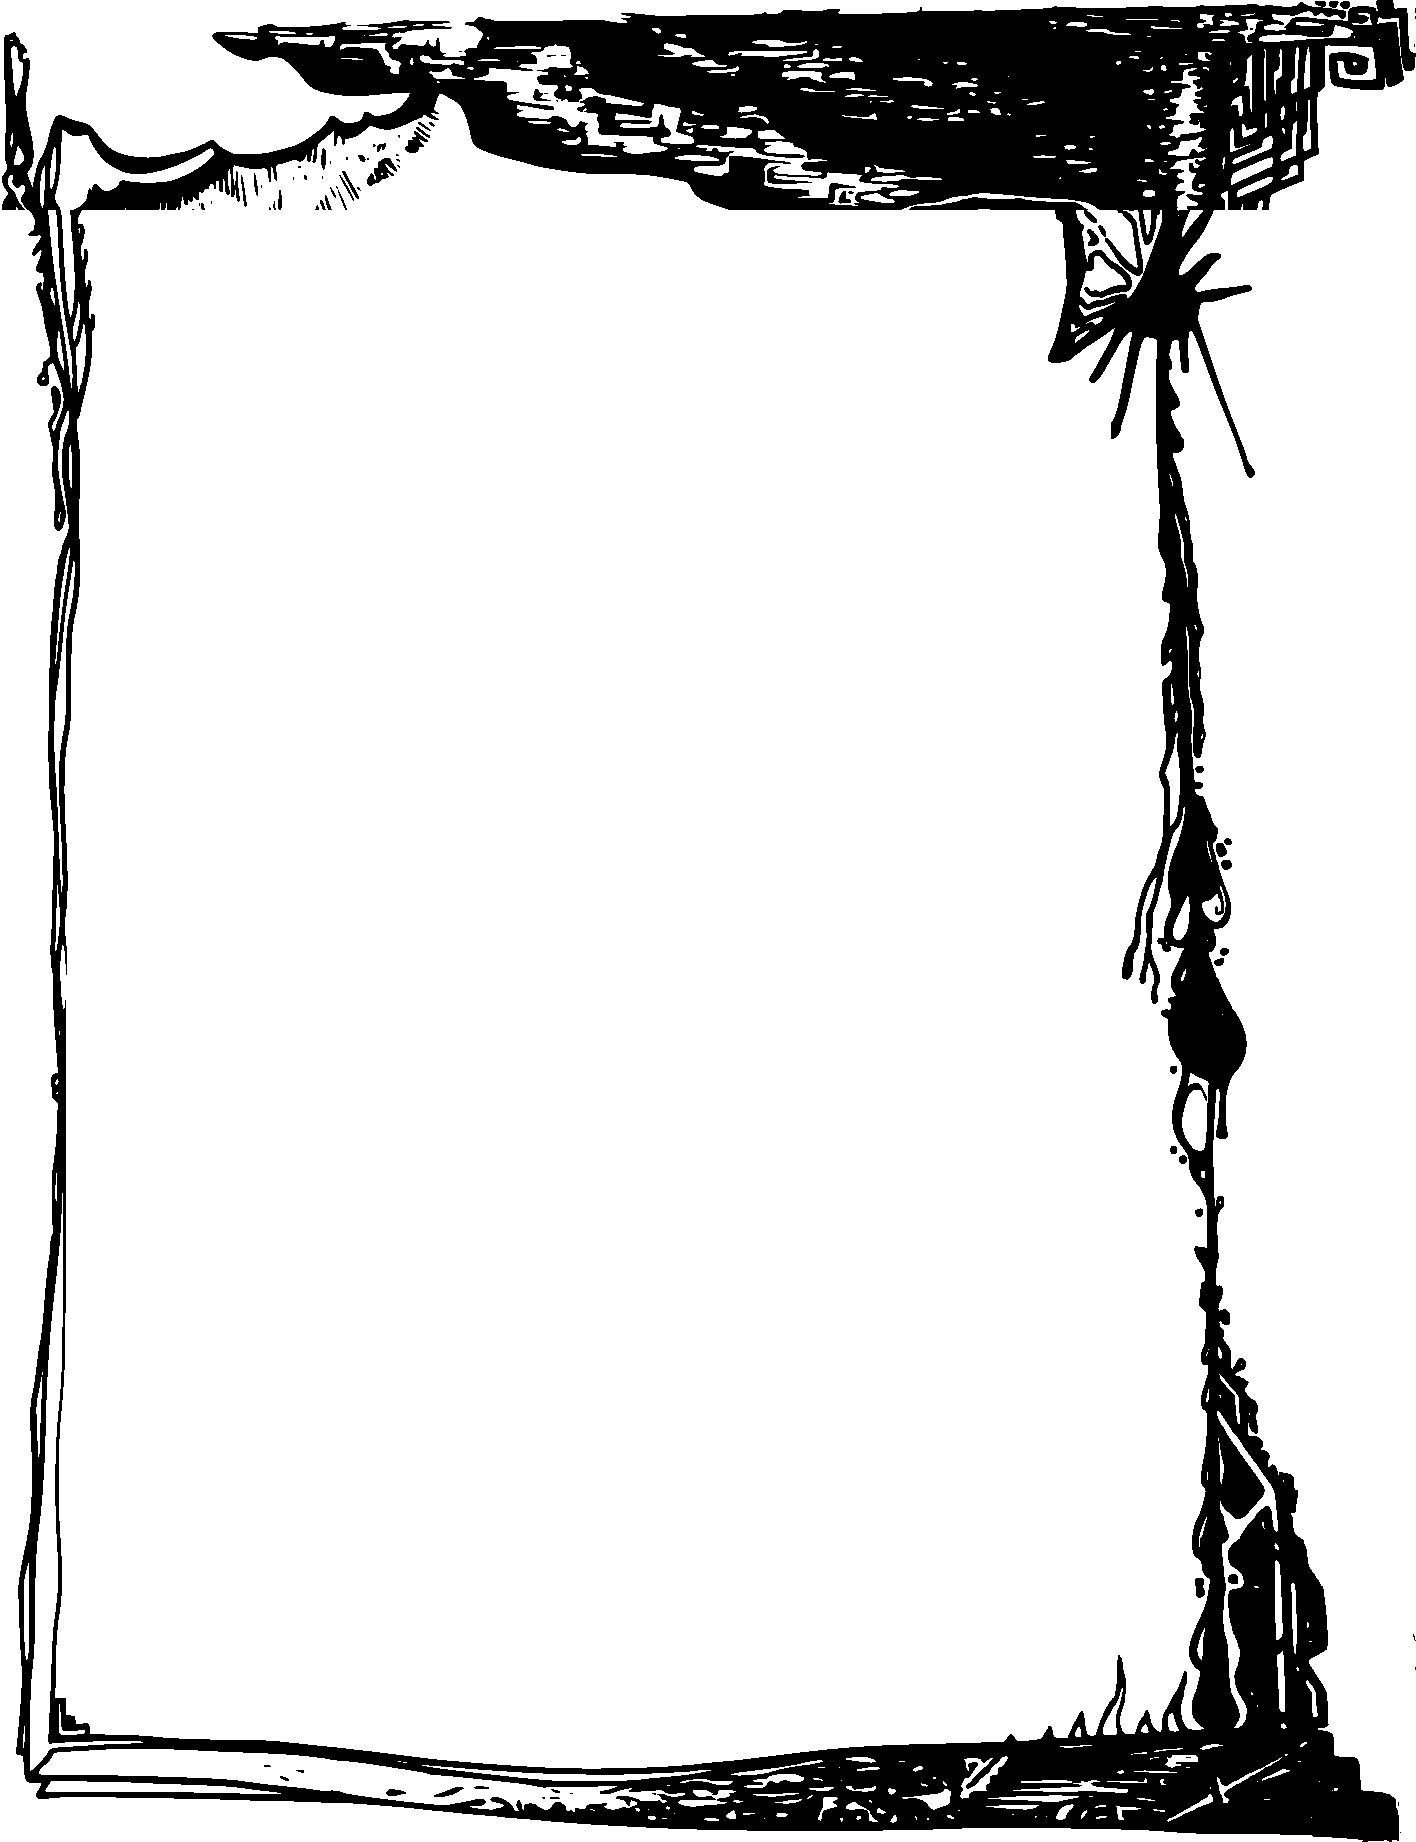
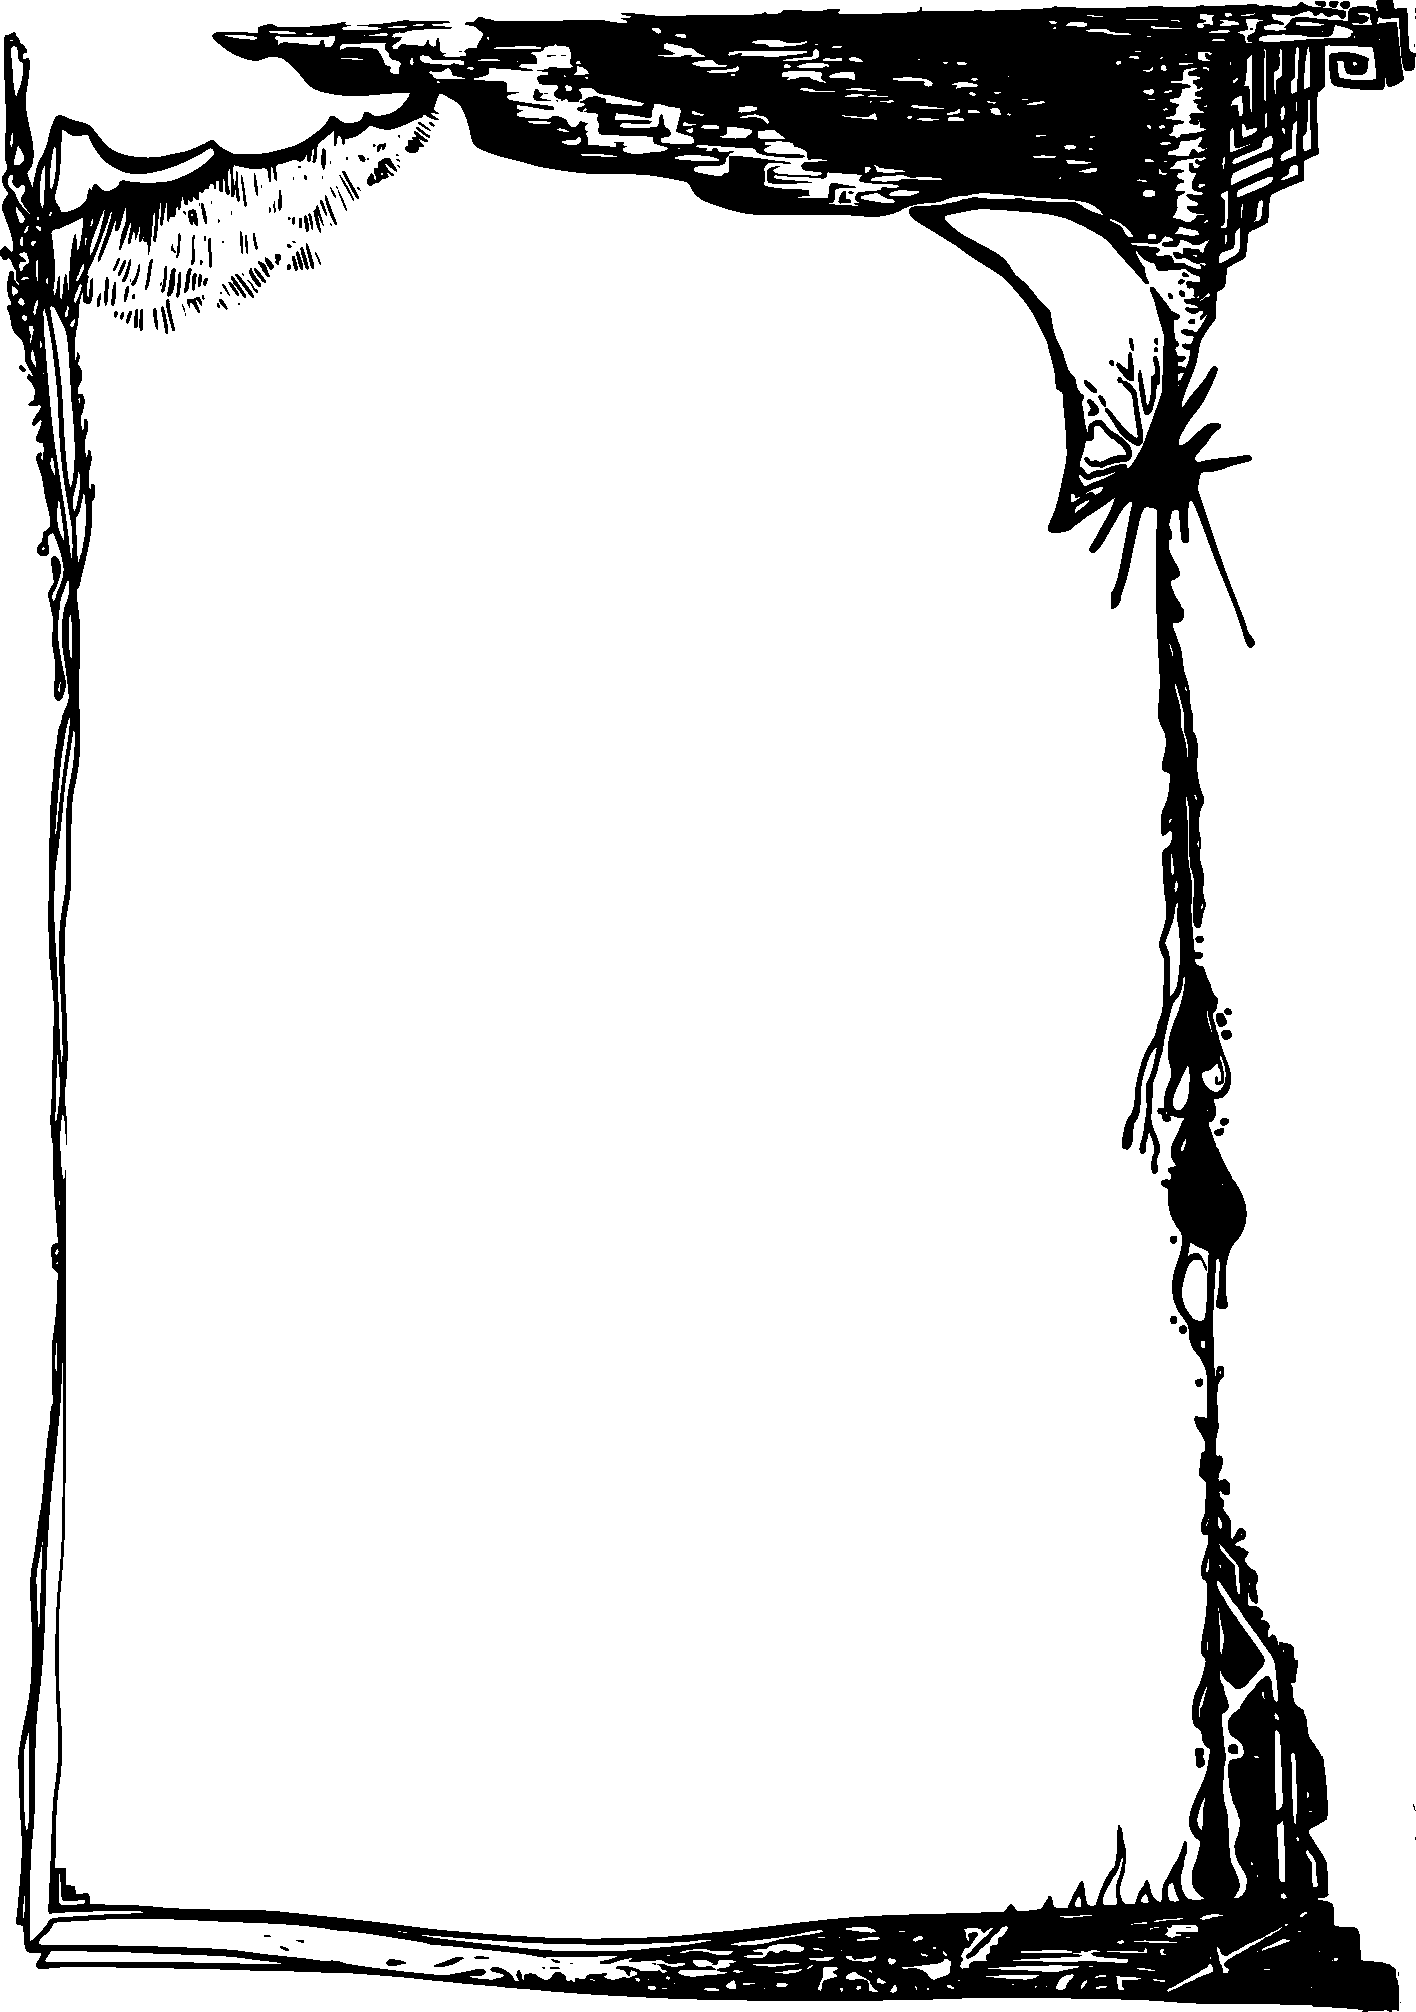
Audio frame: revert to original (uncropped) shape
Undo the earlier splice that compacted audio-frame.png; restored it
from before that commit (1416x2012, full drip motif intact) and the
matching CSS percentages. Interior (the player window) stays black,
everything outside stays page-background-colored even where the ink
drawing visually overflows onto the player or the photo, since it's
only linework on a transparent background, never a filled block.

Changed region(s): [[0.0, 0.0, 1.0, 1.0], [0.0, 0.6498, 0.0621, 0.8046], [0.0, 0.8355, 0.0311, 0.8664]]

diff --git a/styles.css b/styles.css
@@ -147,19 +147,15 @@ nav.menu a:hover, nav.menu a:focus-visible { opacity: .6; }
    risque de cacher une partie fonctionnelle du lecteur), et le dessin du
    cadre (audio-frame.png, même ratio page que le SVG : pas de déformation)
    est posé par-dessus en débordement, pointer-events:none pour rester
-   cliquable. .bandcamp-wrap prend le ratio naturel du dessin (1416x1842)
-   pour que le cadre ne soit pas déformé ; le cadre encré lui-même reste noir
-   (c'est sa couleur d'encre naturelle) et se détache tel quel sur le fond de
-   page, pas de fond noir ajouté derrière lui. Seul le rectangle du lecteur
-   (la "partie rouge" du tracé fourni) a un fond noir, posé sur l'iframe
-   elle-même (le lecteur Bandcamp est appelé en transparent=true).
-   audio-frame.png a été recadré (bande morte de 170px retirée entre le
-   filet du haut et la grappe d'encre qui pendouille) pour que le cadre se
-   tasse autour du lecteur au lieu de garder toute la hauteur d'une page
-   complète ; d'où les % du rectangle recalculés sur ce nouveau canevas. */
+   cliquable. .bandcamp-wrap prend le ratio naturel du dessin (1416x2012,
+   forme d'origine du dessin - pas de recadrage) pour que le cadre ne soit
+   pas déformé. À l'intérieur du cadre (la fenêtre du lecteur), fond noir ;
+   à l'extérieur, aucun fond ajouté (transparent, donc couleur de la page),
+   même là où le dessin encré déborde visuellement sur la photo ou le
+   lecteur - ce n'est que des filets sur fond transparent, jamais un à-plat. */
 .bandcamp-wrap {
   position: relative; width: 100%; max-width: 600px; margin: 0 auto; flex-shrink: 0;
-  aspect-ratio: 1416 / 1842;
+  aspect-ratio: 1416 / 2012;
   border-radius: 6px;
   overflow: hidden;
 }
@@ -170,8 +166,8 @@ nav.menu a:hover, nav.menu a:focus-visible { opacity: .6; }
      calculer la taille depuis les contraintes - vérifié en headless Chrome
      (le lecteur Bandcamp s'affichait alors rabougri, UI dégradée). */
   position: absolute;
-  left: 23.32%; top: 23.18%;
-  width: 63.79%; height: 68.02%;
+  left: 23.32%; top: 29.67%;
+  width: 63.79%; height: 62.28%;
   background: #000;
 }
 .bandcamp-frame {

diff --git a/index.html b/index.html
@@ -13,7 +13,7 @@
 <meta property="og:image" content="https://comodorosuleyman.github.io/accueil.jpg">
 <meta name="twitter:card" content="summary_large_image">
 <link rel="icon" type="image/png" href="favicon.png">
-<link rel="stylesheet" href="styles.css?v=53">
+<link rel="stylesheet" href="styles.css?v=54">
 </head>
 <body class="home">
 <h1 class="visually-hidden">Comodoro Süleyman</h1>

diff --git a/comodoro.html b/comodoro.html
@@ -13,7 +13,7 @@
 <meta property="og:image" content="https://comodorosuleyman.github.io/accueil.jpg">
 <meta name="twitter:card" content="summary_large_image">
 <link rel="icon" type="image/png" href="favicon.png">
-<link rel="stylesheet" href="styles.css?v=53">
+<link rel="stylesheet" href="styles.css?v=54">
 </head>
 <body class="comodoro-page">
 <div class="frame-page">

diff --git a/argumentum.html b/argumentum.html
@@ -13,7 +13,7 @@
 <meta property="og:image" content="https://comodorosuleyman.github.io/accueil.jpg">
 <meta name="twitter:card" content="summary_large_image">
 <link rel="icon" type="image/png" href="favicon.png">
-<link rel="stylesheet" href="styles.css?v=53">
+<link rel="stylesheet" href="styles.css?v=54">
 </head>
 <body>
 <main class="argumentum-page">

diff --git a/agenda.html b/agenda.html
@@ -13,7 +13,7 @@
 <meta property="og:image" content="https://comodorosuleyman.github.io/accueil.jpg">
 <meta name="twitter:card" content="summary_large_image">
 <link rel="icon" type="image/png" href="favicon.png">
-<link rel="stylesheet" href="styles.css?v=53">
+<link rel="stylesheet" href="styles.css?v=54">
 </head>
 <body>
 <div class="frame-page">

diff --git a/audio.html b/audio.html
@@ -13,7 +13,7 @@
 <meta property="og:image" content="https://comodorosuleyman.github.io/accueil.jpg">
 <meta name="twitter:card" content="summary_large_image">
 <link rel="icon" type="image/png" href="favicon.png">
-<link rel="stylesheet" href="styles.css?v=53">
+<link rel="stylesheet" href="styles.css?v=54">
 </head>
 <body>
 <div class="frame-page">

diff --git a/codex.html b/codex.html
@@ -13,7 +13,7 @@
 <meta property="og:image" content="https://comodorosuleyman.github.io/accueil.jpg">
 <meta name="twitter:card" content="summary_large_image">
 <link rel="icon" type="image/png" href="favicon.png">
-<link rel="stylesheet" href="styles.css?v=53">
+<link rel="stylesheet" href="styles.css?v=54">
 </head>
 <body>
 <div class="frame-page">

diff --git a/contact.html b/contact.html
@@ -13,7 +13,7 @@
 <meta property="og:image" content="https://comodorosuleyman.github.io/accueil.jpg">
 <meta name="twitter:card" content="summary_large_image">
 <link rel="icon" type="image/png" href="favicon.png">
-<link rel="stylesheet" href="styles.css?v=53">
+<link rel="stylesheet" href="styles.css?v=54">
 </head>
 <body>
 <div class="frame-page">

diff --git a/video.html b/video.html
@@ -13,7 +13,7 @@
 <meta property="og:image" content="https://comodorosuleyman.github.io/accueil.jpg">
 <meta name="twitter:card" content="summary_large_image">
 <link rel="icon" type="image/png" href="favicon.png">
-<link rel="stylesheet" href="styles.css?v=53">
+<link rel="stylesheet" href="styles.css?v=54">
 </head>
 <body>
 <div class="frame-page">
